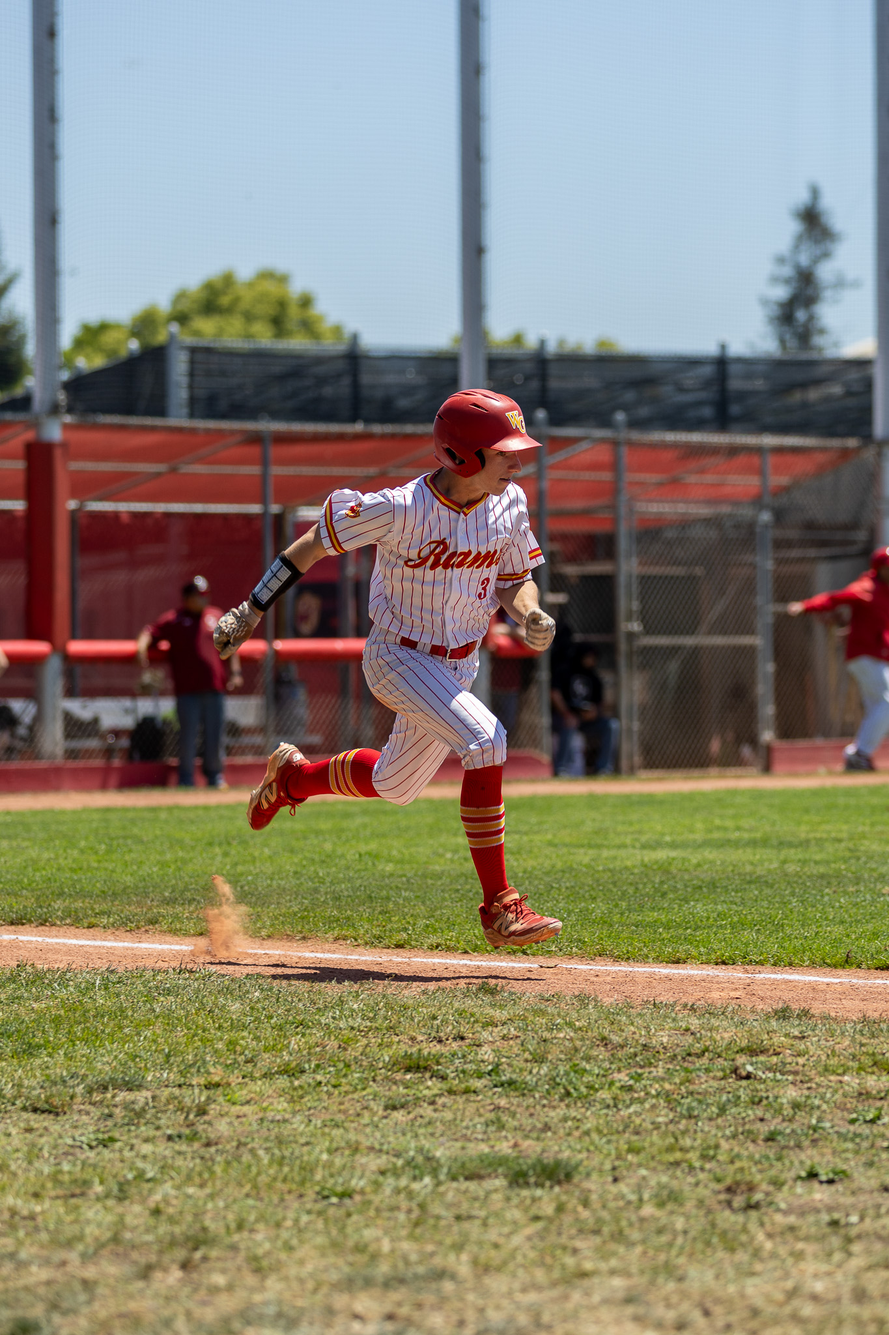
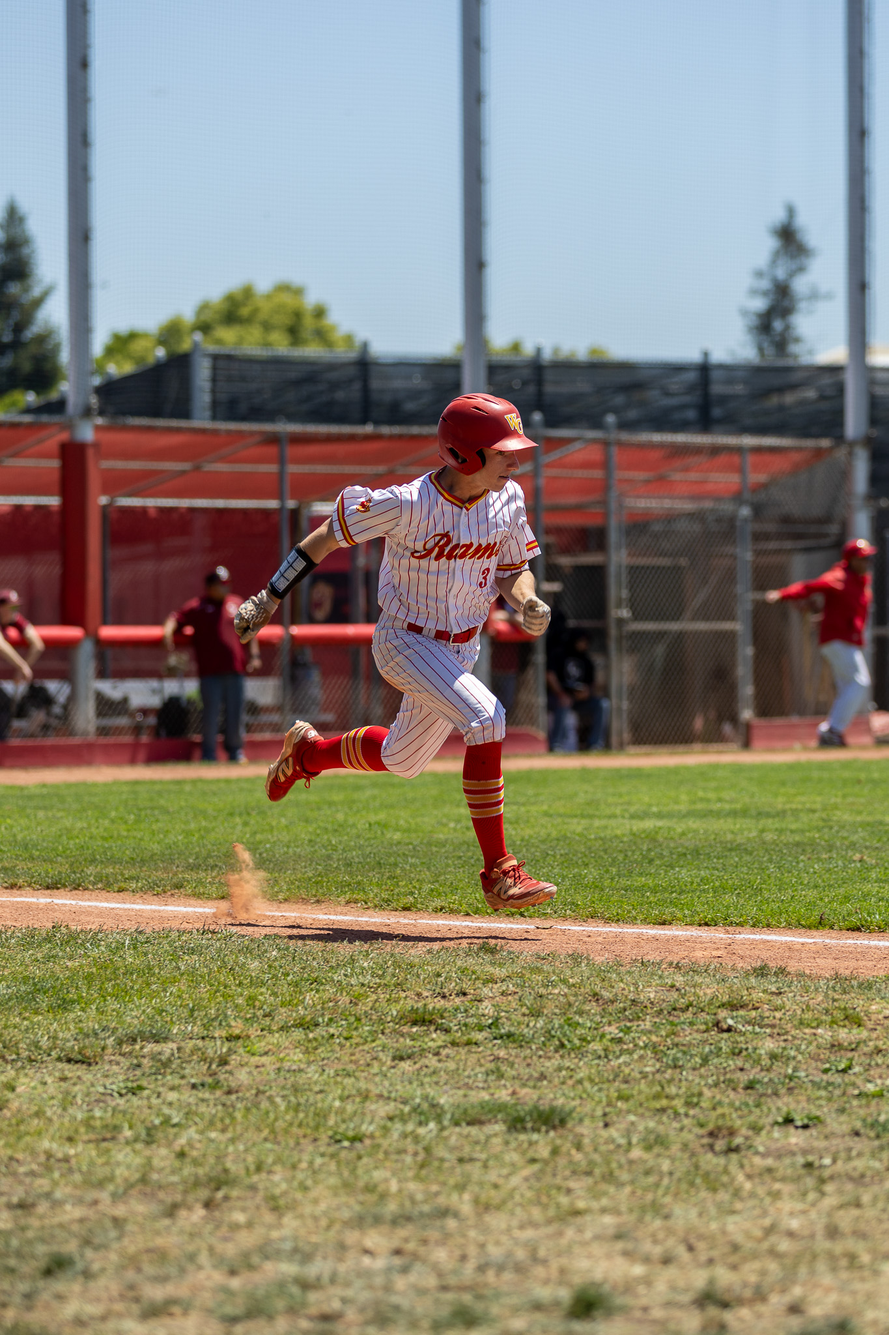
Updated photo layout

diff --git a/index.html b/index.html
@@ -41,18 +41,15 @@
     Edit data-sport / data-cap to control the caption shown on hover and in the lightbox.
   -->
   <div class="gallery">
-    <div class="tile g-large" data-sport="Softball" data-cap="Willow Glen HS vs Gilroy — May 13 2026"><img src="photos/Softball.01.jpg" alt="Softball player throwing a ball"><div class="tile-cap">Softball</div></div>
+    <div class="tile g-large" data-sport="Football" data-cap="Willow Glen HS vs Branham — September 10 2026"><img src="photos/Football.01.jpg" alt="Description of the shot"><div class="tile-cap">Football</div></div>
+    <div class="tile g-normal" data-sport="Soccer" data-cap="2011 Boys Almaden FC vs Earthquakes Academy — August 23 2025"><img src="photos/Soccer.02.jpg" alt="Description of the shot"><div class="tile-cap">Soccer</div></div>
+    <div class="tile g-normal" data-sport="Volleyball" data-cap="Willow Glen HS vs Lincoln — May 5 2026"><img src="photos/Volleyball.01.jpg" alt="A volleyball player getting a deep dig" class="obj-low"><div class="tile-cap">Volleyball</div></div>
     <div class="tile g-portrait" data-sport="Soccer" data-cap="Willow Glen HS vs Westmont — February 12 2026"><img src="photos/Soccer.01.jpg" alt="A player running towards the action" class="obj-left"><div class="tile-cap">Soccer</div></div>
-    <div class="tile g-normal" data-sport="Volleyball" data-cap="Add caption"><img src="photos/Volleyball.01.jpg" alt="A volleyball player getting a deep dig" class="obj-low"><div class="tile-cap">Volleyball</div></div>
-    <div class="tile g-normal" data-sport="Soccer" data-cap="Add caption"><img src="photos/your-file.jpg" alt="Description of the shot"><div class="tile-cap">Soccer</div></div>
-    <div class="tile g-normal" data-sport="Baseball" data-cap="Add caption"><img src="photos/Baseball.01.jpg" alt="Description of the shot"><div class="tile-cap">Baseball</div></div>
+    <div class="tile g-portrait" data-sport="Football" data-cap="Willow Glen HS vs Branham — September 10 2026"><img src="photos/Football.02.jpg" alt="A referee preparing for the coin toss"><div class="tile-cap">Football</div></div>
     <div class="tile g-portrait" data-sport="Lacrosse" data-cap="Willow Glen HS vs Ann Sobrato — May 6 2026"><img src="photos/Lacrosse.01.jpg" alt="Two girls at the lacrosse faceoff"><div class="tile-cap">Lacrosse</div></div>
-    <div class="tile g-normal" data-sport="Basketball" data-cap="Add caption"><img src="photos/Soccer.02.jpg" alt="Description of the shot"><div class="tile-cap">Basketball</div></div>
-    <div class="tile g-large" data-sport="Football" data-cap="Add caption"><img src="photos/Football.01.jpg" alt="Description of the shot"><div class="tile-cap">Soccer</div></div>
-    <div class="tile g-normal" data-sport="Volleyball" data-cap="Add caption"><img src="photos/your-file.jpg" alt="Description of the shot"><div class="tile-cap">Volleyball</div></div>
-    <div class="tile g-normal" data-sport="Basketball" data-cap="Add caption"><img src="photos/your-file.jpg" alt="Description of the shot"><div class="tile-cap">Basketball</div></div>
-    <div class="tile g-normal" data-sport="Track &amp; Field" data-cap="Add caption"><img src="photos/your-file.jpg" alt="Description of the shot"><div class="tile-cap">Track &amp; Field</div></div>
-    <div class="tile g-portrait" data-sport="Wrestling" data-cap="Add caption"><img src="photos/your-file.jpg" alt="Description of the shot"><div class="tile-cap">Wrestling</div></div>
+    <div class="tile g-normal" data-sport="Soccer" data-cap="2011 Boys Sentinels Academy vs Legends FC — May 31 2025"><img src="photos/Soccer.03.jpg" alt="Description of the shot"><div class="tile-cap">Soccer</div></div>
+    <div class="tile g-large" data-sport="Softball" data-cap="Willow Glen HS vs Gilroy — May 13 2026"><img src="photos/Softball.01.jpg" alt="Softball player throwing a ball"><div class="tile-cap">Softball</div></div>
+    <div class="tile g-normal" data-sport="Basketball" data-cap="Willow Glen HS vs Pioneer — February 14 2025"><img src="photos/Basketball.01.jpg" alt="Description of the shot"><div class="tile-cap">Basketball</div></div>
   </div>
 </section>
 

diff --git a/styles.css b/styles.css
@@ -108,7 +108,7 @@ section{padding:64px 0;}
 }
 .tile img{width:100%; height:100%; object-fit:cover;}
 .tile img.obj-low{object-position:center 61%;}
-.tile img.obj-left{object-position:30% center;}
+.tile img.obj-left{object-position:60% center;}
 .tile-cap{
   position:absolute; left:0; right:0; bottom:0;
   padding:16px 18px;
